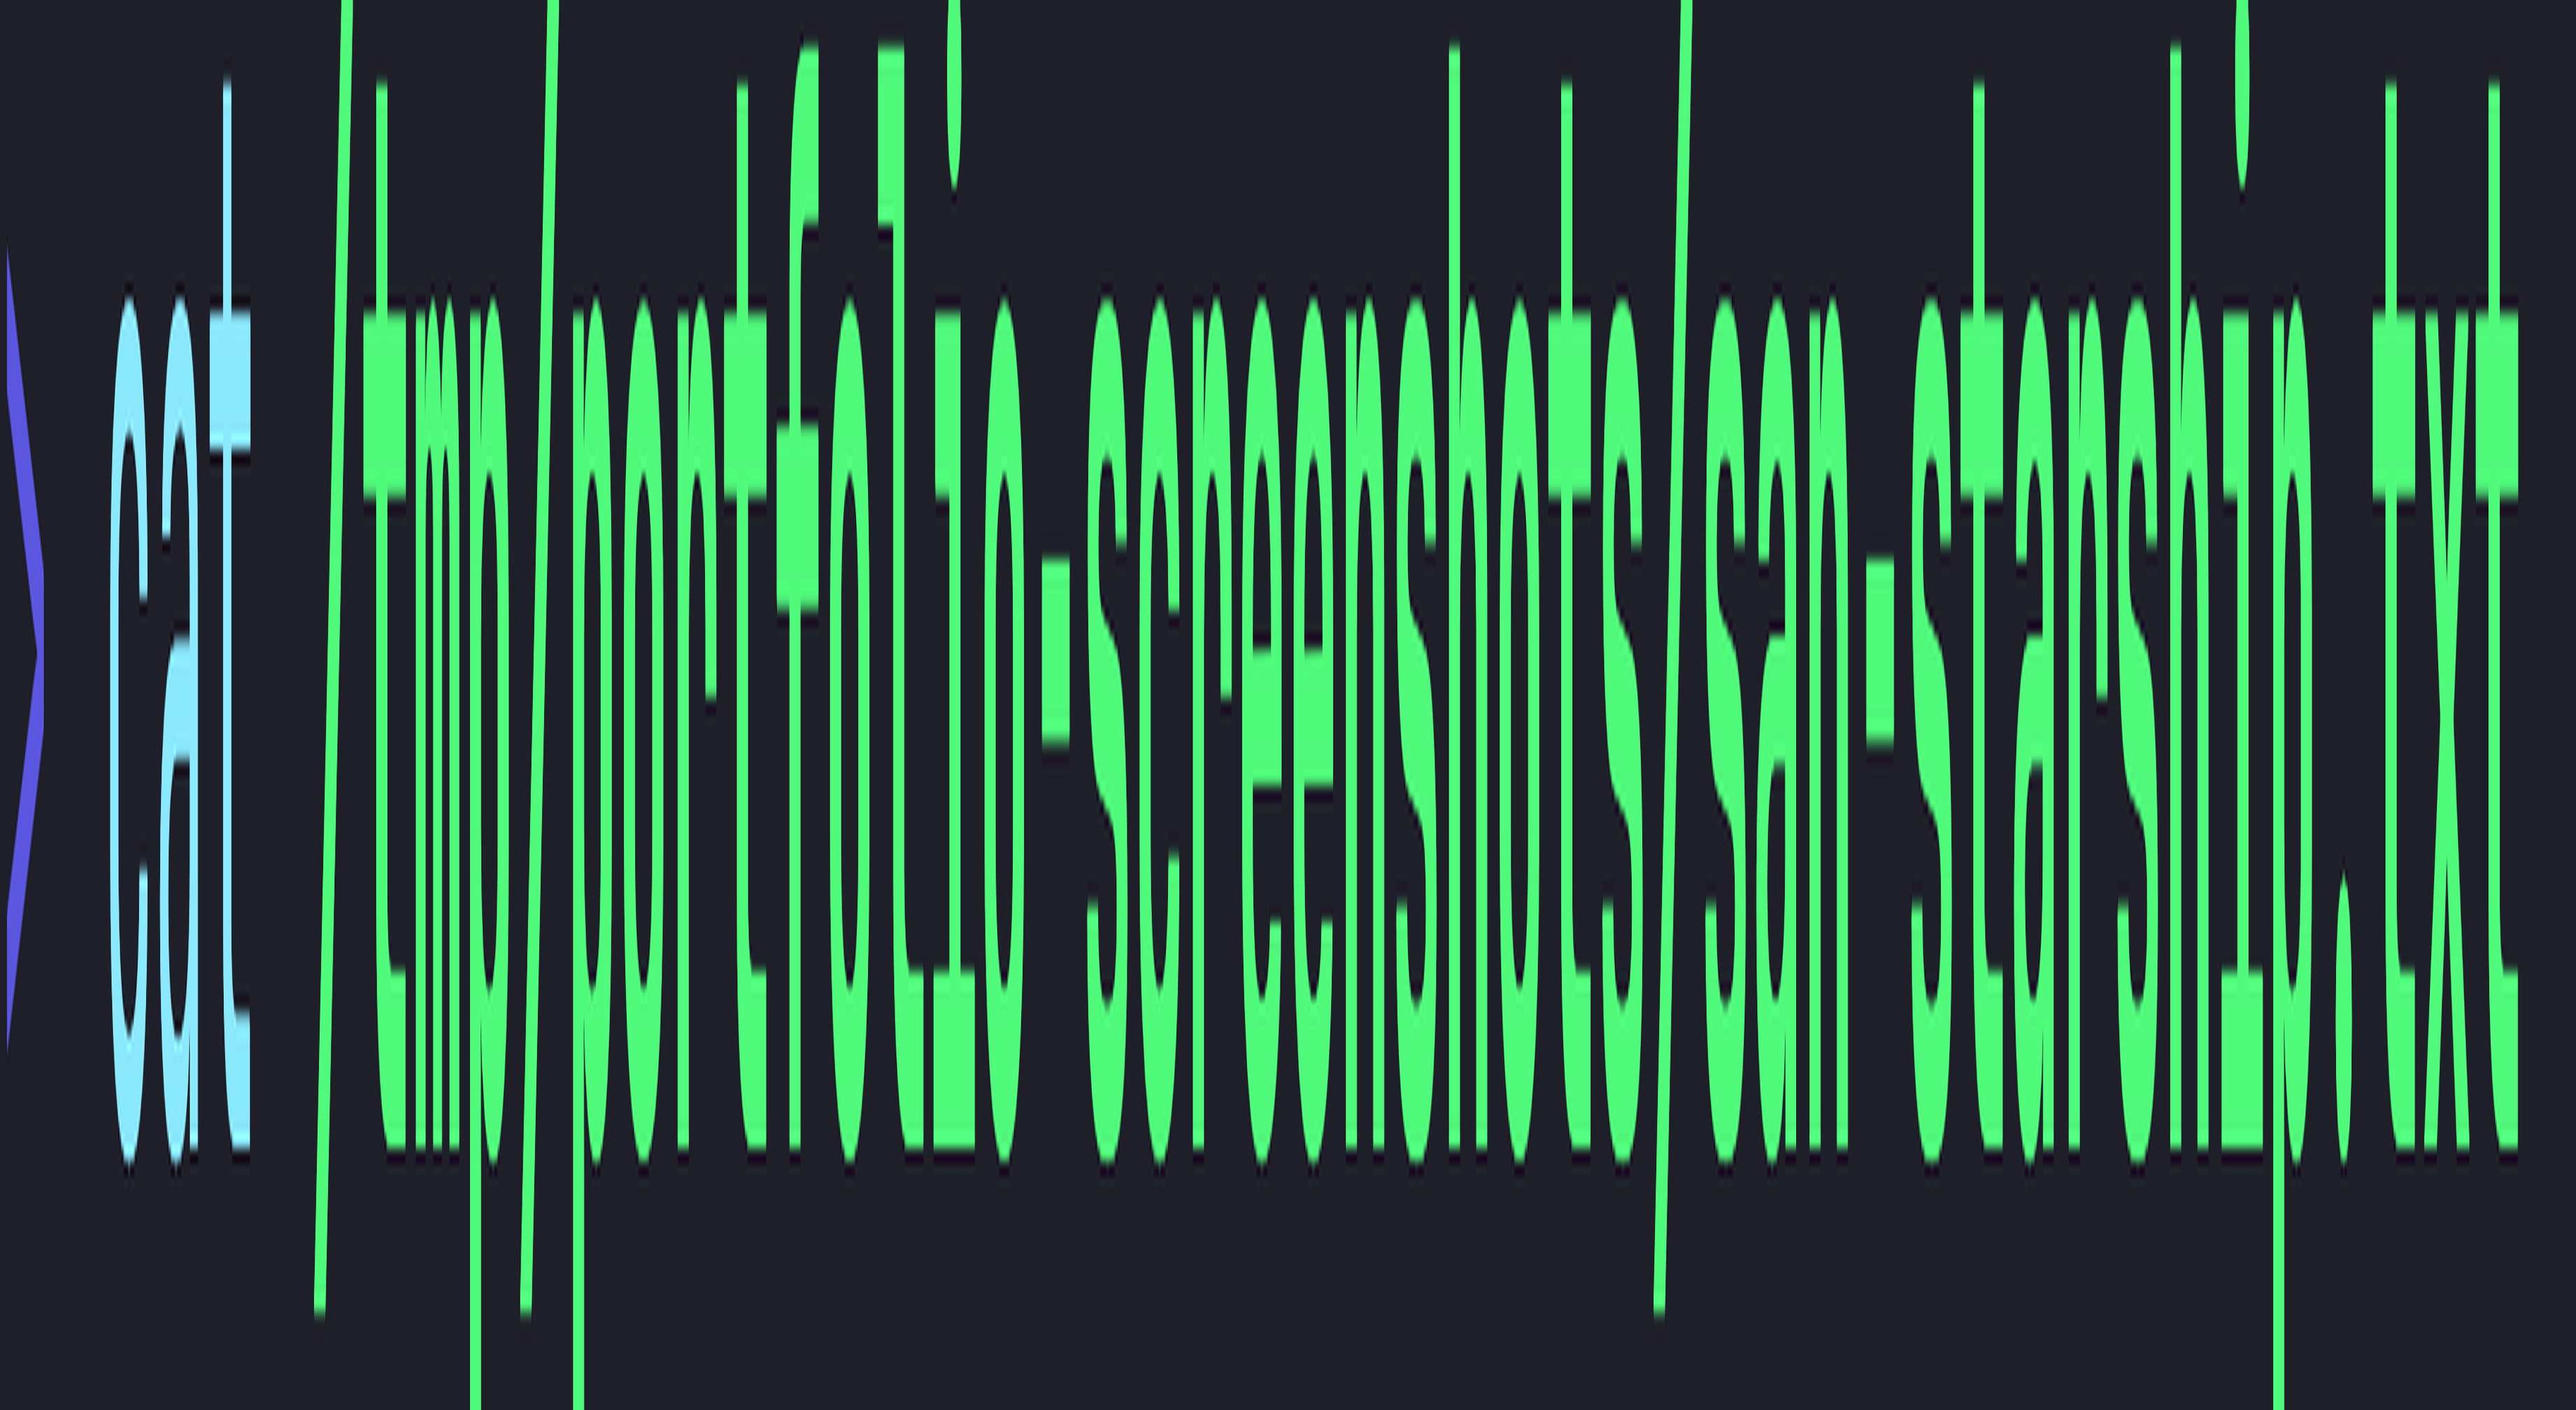
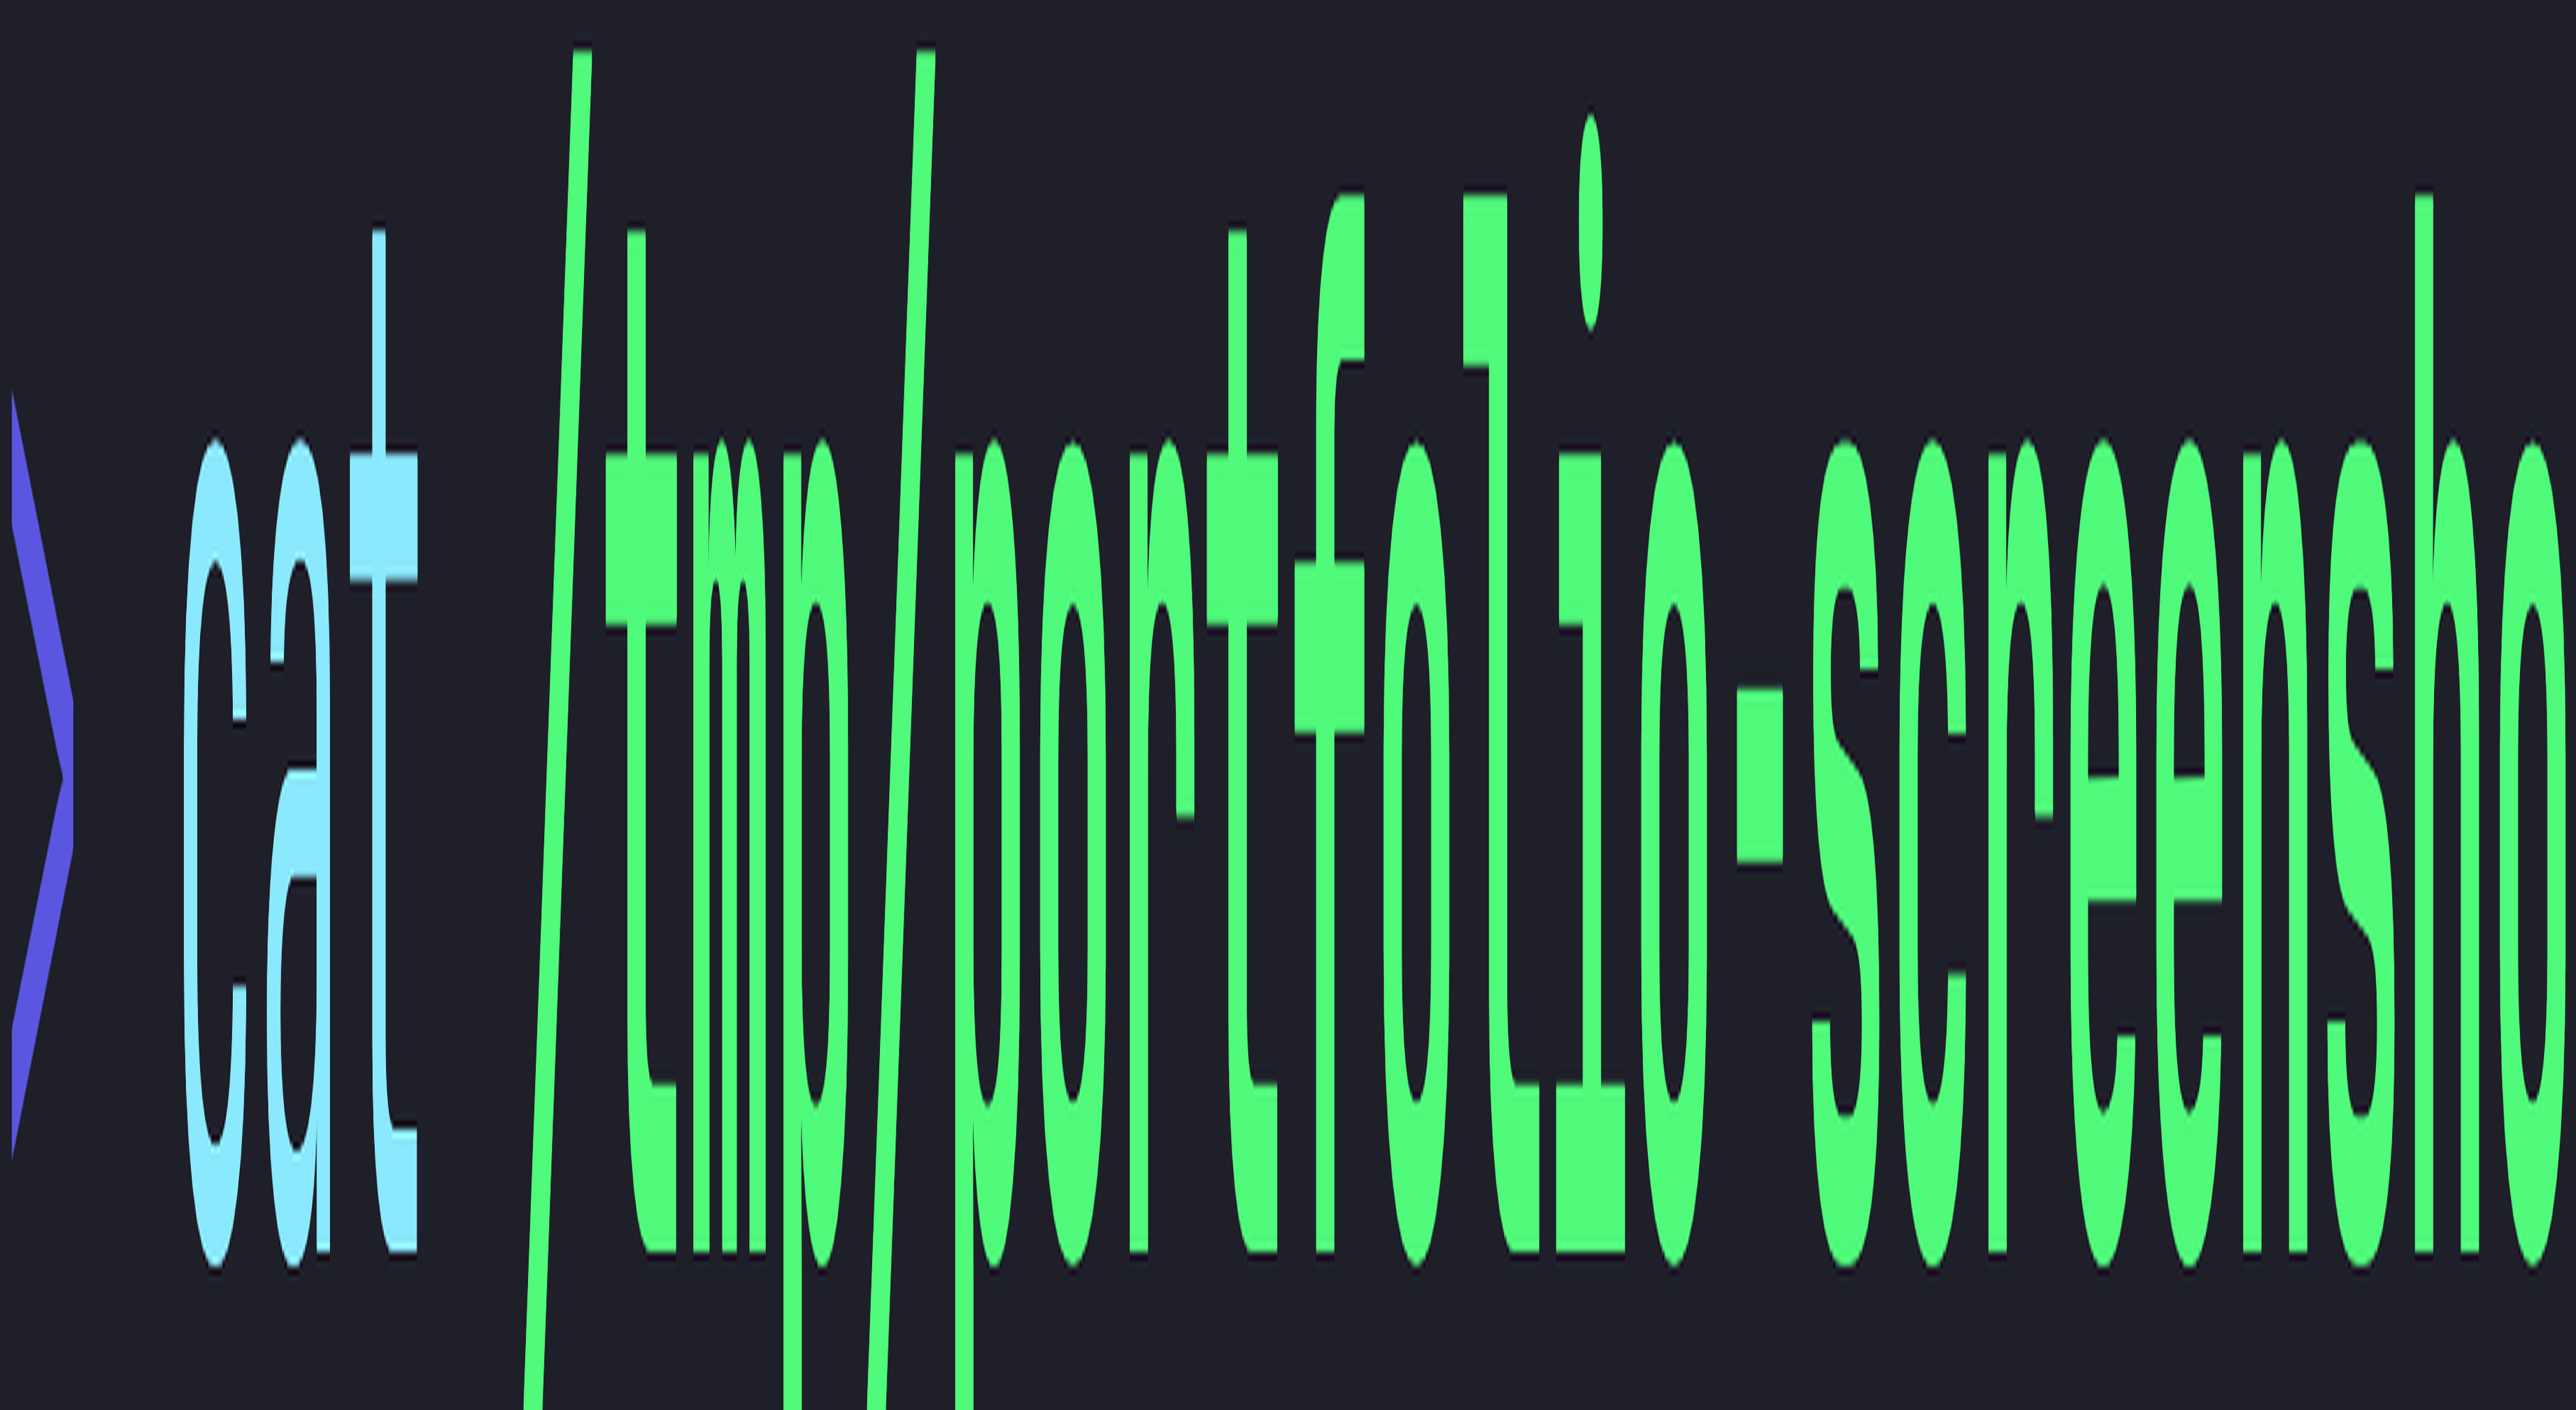
fix: crop and resize fastfetch and starship to match opencode dimensions
- Starship: crop to first content block (prompt only), resize to 3683x2016
- Fastfetch: crop command input, resize to 3683x2016
- Ghostty and opencode unchanged
- All screenshots: content fills frame, no blank space

diff --git a/scripts/capture-screenshots.py b/scripts/capture-screenshots.py
@@ -332,16 +332,17 @@ Enter
 Sleep 0.5s
 Type "cat {sf}"
 Enter
-Sleep 3s""", w=3840, h=2160, fs=32, shell="nu")
+Sleep 3s""", w=3840, h=2160, fs=40, shell="nu")
 # Crop fastfetch to remove command input line
 src = OUT / "fastfetch.png"
 if src.exists():
-    cropped = TMP / "fastfetch-cropped.png"
-    crop_png(src, cropped, 30, 2100, 3690)
-    # Tight crop to content
-    crop_to_content(cropped, src)
-    # Resize to match opencode dimensions
     from PIL import Image
+    img = Image.open(src)
+    w, h = img.size
+    # Skip top 30px (command input), keep rest
+    cropped = img.crop((0, 30, w, h))
+    cropped.save(src)
+    # Resize to match opencode dimensions
     img = Image.open(src)
     resized = img.resize((3683, 2016), Image.LANCZOS)
     resized.save(src)
@@ -356,42 +357,37 @@ Enter
 Sleep 0.5s
 Type "cat {sf}"
 Enter
-Sleep 3s""", w=3840, h=2160, fs=120, shell="nu")
-# Crop starship to remove command input line, then tight crop to content
+Sleep 3s""", w=3840, h=2160, fs=200, shell="nu")
+# Crop starship to remove command input line and bottom shell prompt
 src = OUT / "starship.png"
 if src.exists():
-    cropped = TMP / "starship-cropped.png"
-    crop_png(src, cropped, 30, 2000, 3690)
-    crop_to_content(cropped, src)
-    # Crop out bottom shell prompt — keep only the starship prompt area
     from PIL import Image
     img = Image.open(src)
     arr = list(img.getdata())
     w, h = img.size
     bg = (30, 31, 41)
-    # Find where the FIRST block of content ends
-    # Scan from top, find last row of first content block before a gap
-    first_block_end = 0
+    # Find where the FIRST content block ends (starship prompt)
     in_content = False
-    gap_count = 0
+    gap_start = None
     for y in range(h):
         non_bg = 0
-        for x in range(0, w, 5):
+        for x in range(0, w, 3):
             idx = y * w + x
             r, g, b = arr[idx][:3]
             if abs(r - bg[0]) > 8 or abs(g - bg[1]) > 8 or abs(b - bg[2]) > 8:
                 non_bg += 1
-        if non_bg > 20:
+        if non_bg > 30:
             in_content = True
-            first_block_end = y
-            gap_count = 0
-        elif in_content:
-            gap_count += 1
-            if gap_count > 30:  # 30 rows of gap = end of first block
-                break
-    # Crop to first content block + small padding
-    crop_h = min(first_block_end + 20, h)
-    cropped = img.crop((0, 0, w, crop_h))
+            gap_start = None
+        elif in_content and gap_start is None:
+            gap_start = y
+        elif in_content and gap_start is not None and (y - gap_start) > 40:
+            content_bottom = gap_start
+            break
+    else:
+        content_bottom = h
+
+    cropped = img.crop((0, 30, w, content_bottom))
     cropped.save(src)
     # Resize to match opencode dimensions
     img = Image.open(src)